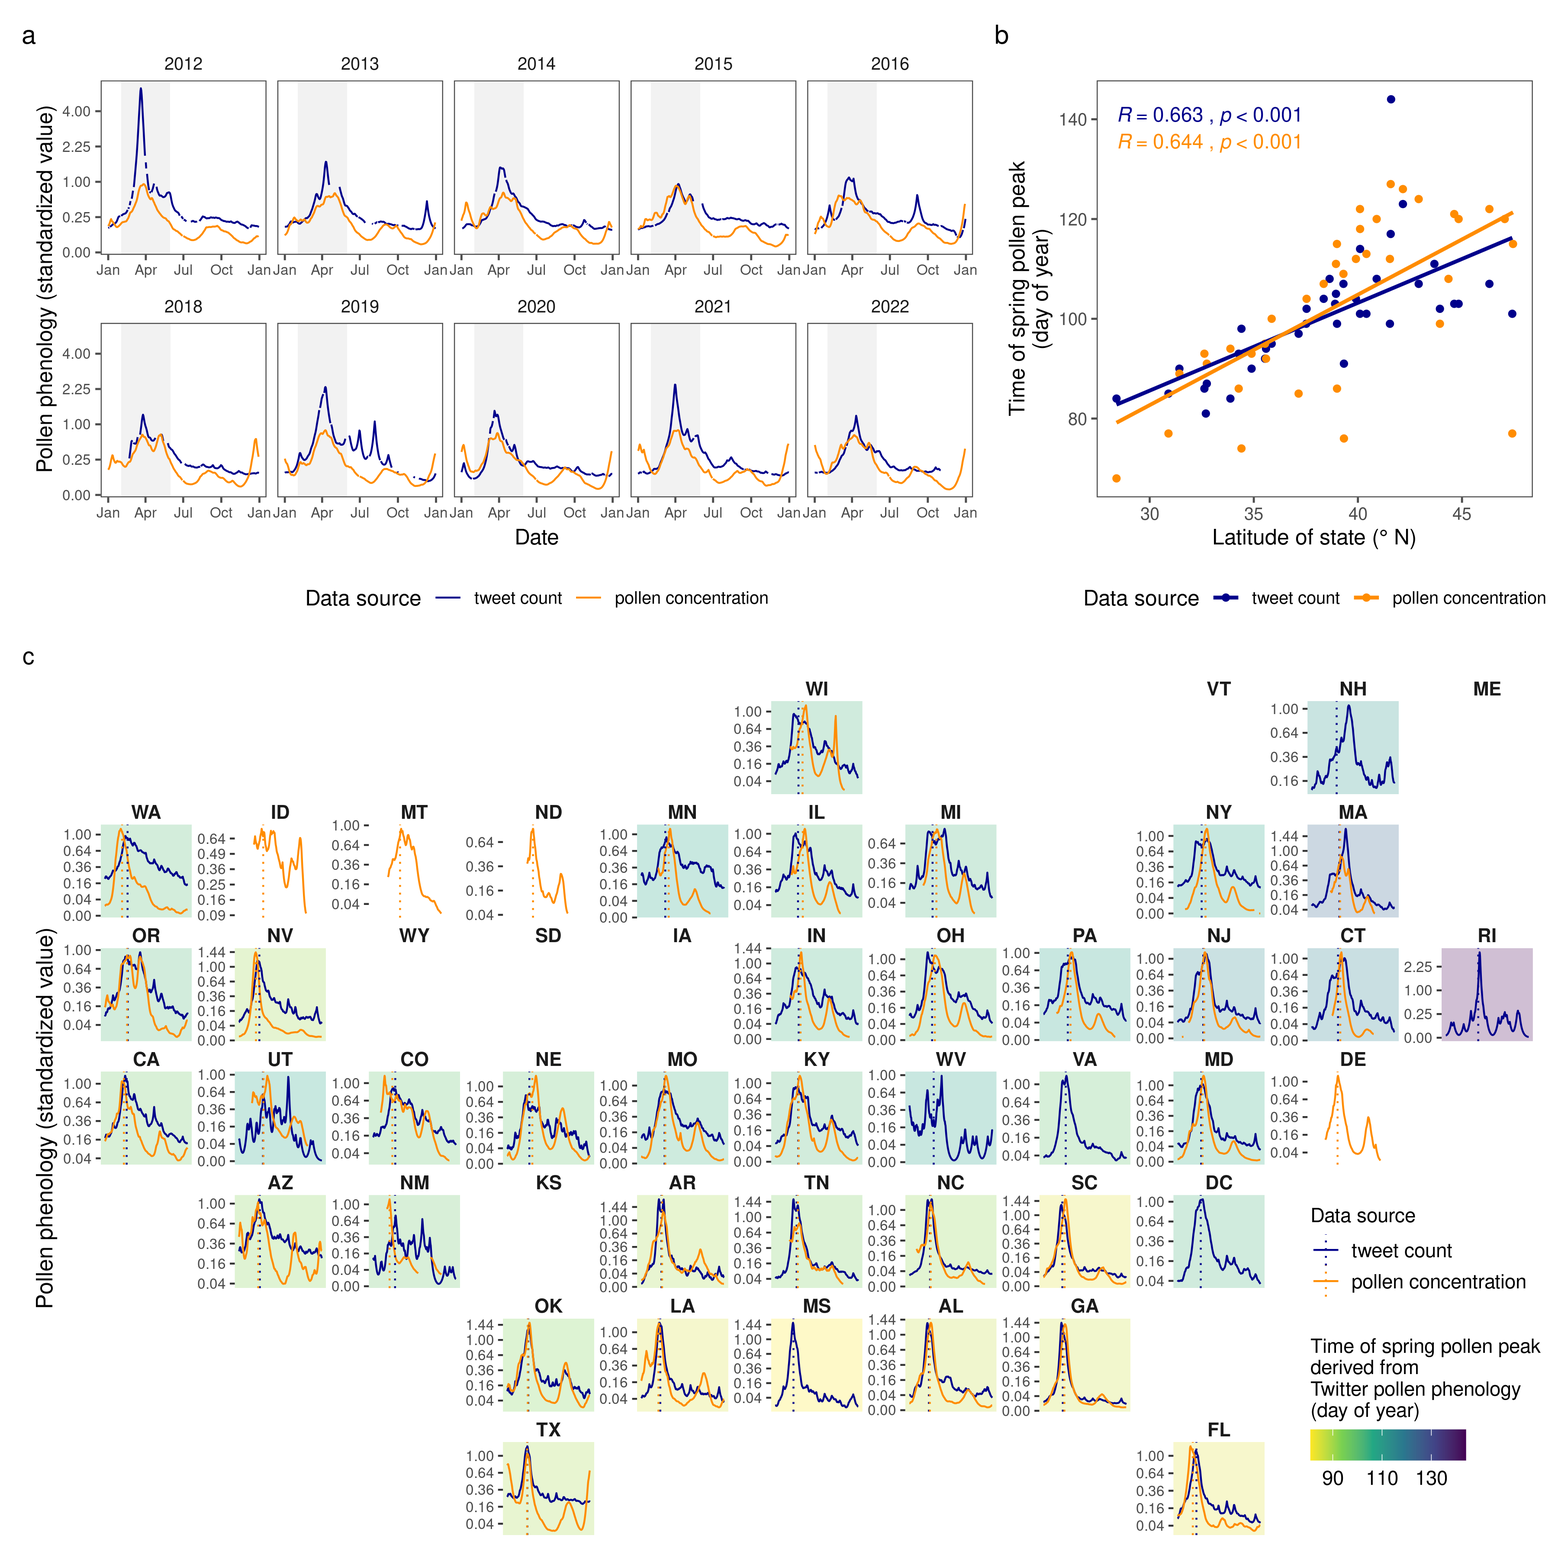
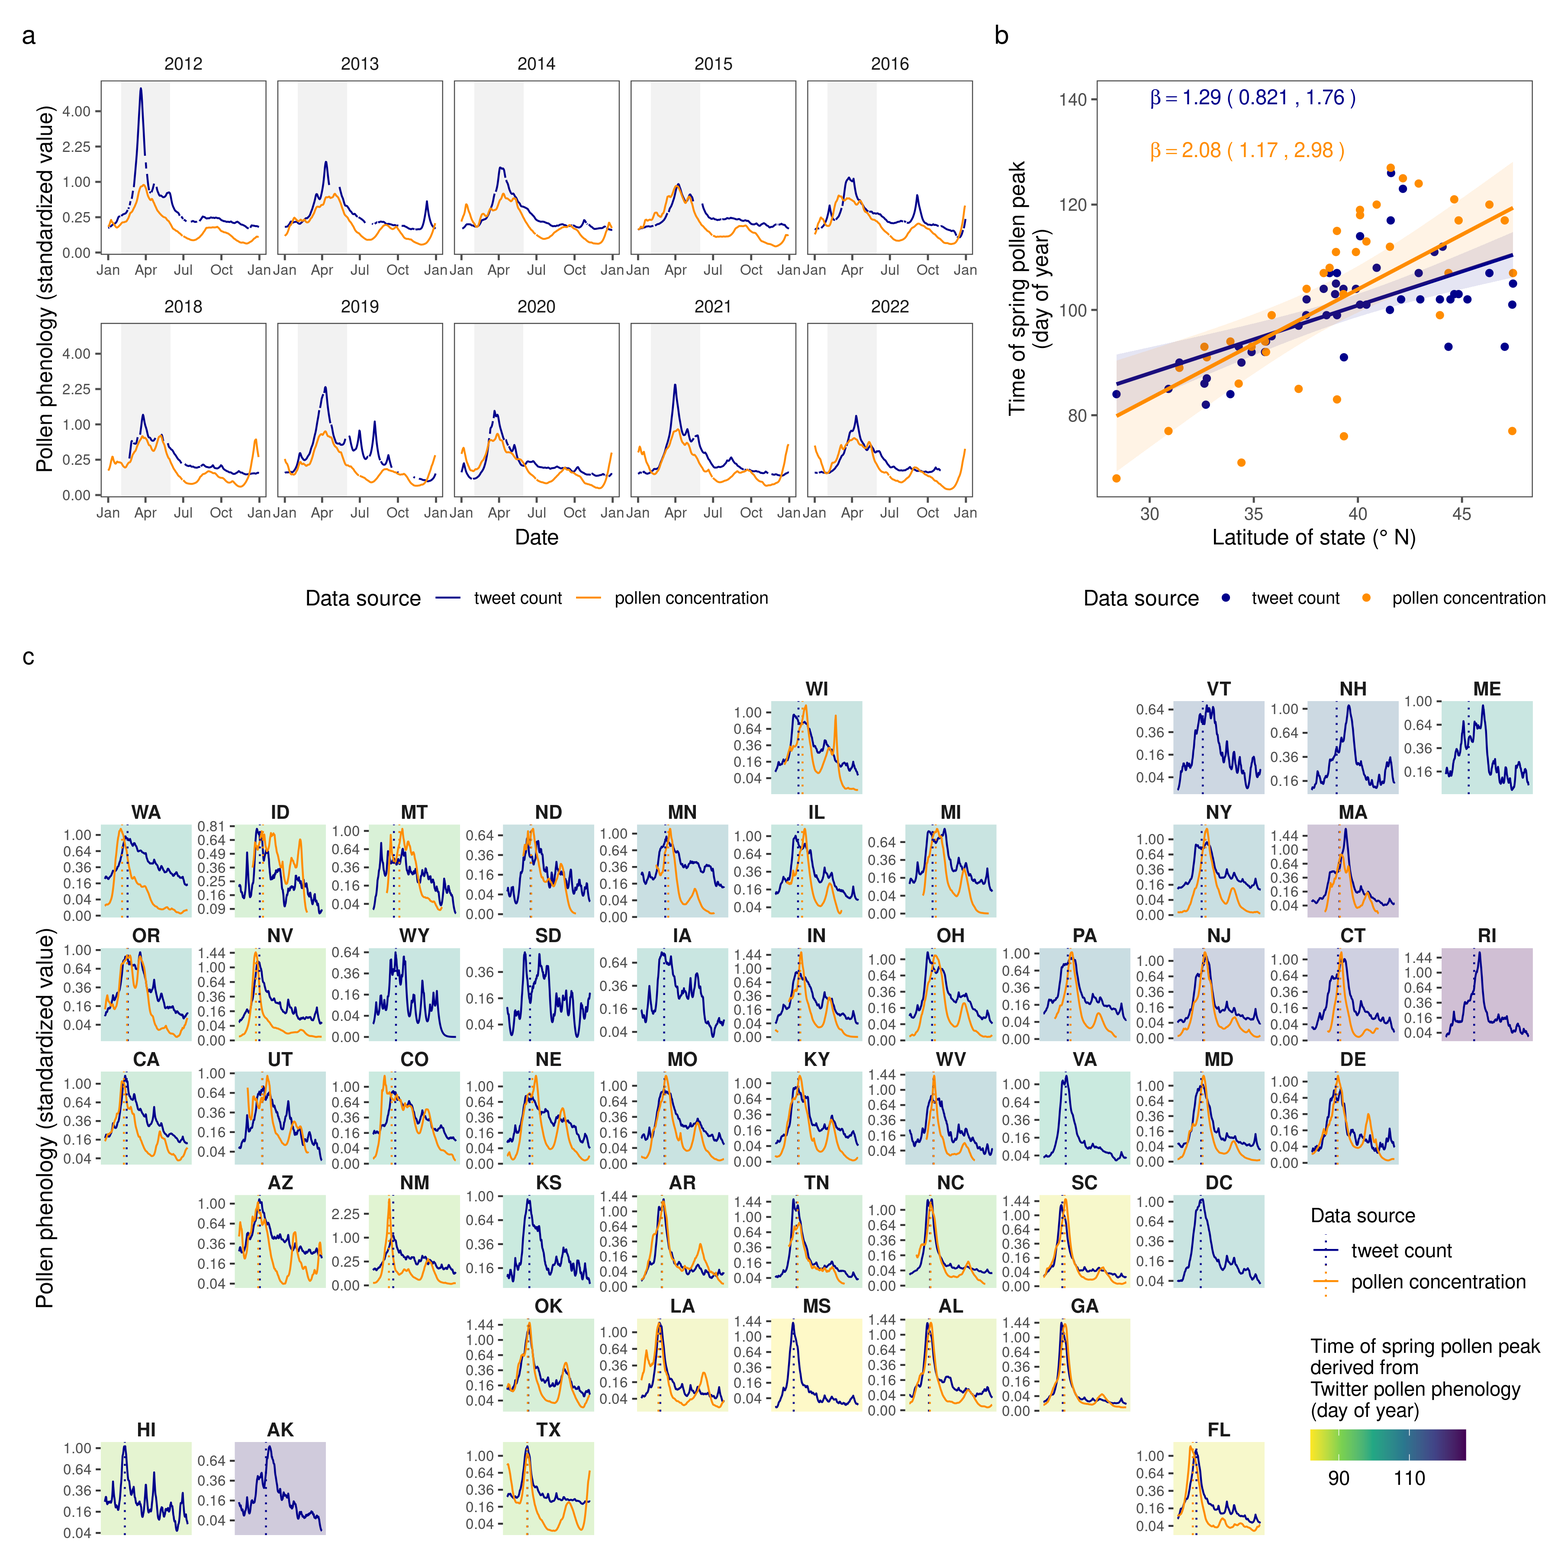
Built site for gh-pages

diff --git a/research.html b/research.html
@@ -225,7 +225,43 @@ window.Quarto = {
 
 <div class="quarto-listing quarto-listing-container-default" id="listing-listing">
 <div class="list quarto-listing-default">
-<div class="quarto-post image-right" data-index="0" data-categories="QWxsZXJnZW4lMjBwaGVub2xvZ3klMkNGaXJzdC1hdXRob3I=" data-listing-date-sort="1766725200000" data-listing-file-modified-sort="1768945345576" data-listing-date-modified-sort="NaN" data-listing-reading-time-sort="3" data-listing-word-count-sort="451">
+<div class="quarto-post image-right" data-index="0" data-categories="Q2hhbmdpbmclMjBwaGVub2xvZ3klMkNGaXJzdC1hdXRob3I=" data-listing-date-sort="1768885200000" data-listing-file-modified-sort="1768946403275" data-listing-date-modified-sort="NaN" data-listing-reading-time-sort="2" data-listing-word-count-sort="285">
+<div class="thumbnail">
+<p><a href="./research/b4warmed/index.html" class="no-external"></a></p><a href="./research/b4warmed/index.html" class="no-external">
+<p class="card-img-top"><img src="research/b4warmed/1.jpg"  class="thumbnail-image card-img"/></p>
+</a><p><a href="./research/b4warmed/index.html" class="no-external"></a></p>
+</div>
+<div class="body">
+<h3 class="no-anchor listing-title">
+<a href="./research/b4warmed/index.html" class="no-external">Forest tree phenology in a global change experiment</a>
+</h3>
+<div class="listing-subtitle">
+<a href="./research/b4warmed/index.html" class="no-external">Warming makes forest trees grow earlier in the spring, but often not taller</a>
+</div>
+<div class="listing-categories">
+<div class="listing-category" onclick="window.quartoListingCategory('Q2hhbmdpbmclMjBwaGVub2xvZ3k='); return false;">
+Changing phenology
+</div>
+<div class="listing-category" onclick="window.quartoListingCategory('Rmlyc3QtYXV0aG9y'); return false;">
+First-author
+</div>
+</div>
+<div class="listing-description">
+<a href="./research/b4warmed/index.html" class="no-external">Manuscript under review, invited oral presentation at AGU 2024</a>
+</div>
+</div>
+<div class="metadata">
+<a href="./research/b4warmed/index.html" class="no-external">
+<div class="listing-date">
+Jan 20, 2026
+</div>
+<div class="listing-author">
+<strong>Yiluan Song</strong>, Kai Zhu, Yang Chen, Artur Stefanski, Raimundo Bermudez, Rebecca A. Montgomery, Peter B. Reich
+</div>
+</a>
+</div>
+</div>
+<div class="quarto-post image-right" data-index="1" data-categories="QWxsZXJnZW4lMjBwaGVub2xvZ3klMkNGaXJzdC1hdXRob3I=" data-listing-date-sort="1766725200000" data-listing-file-modified-sort="1768945608822" data-listing-date-modified-sort="NaN" data-listing-reading-time-sort="3" data-listing-word-count-sort="431">
 <div class="thumbnail">
 <p><a href="./research/twitter/index.html" class="no-external"></a></p><a href="./research/twitter/index.html" class="no-external">
 <p class="card-img-top"><img src="research/twitter/1.png"  class="thumbnail-image card-img"/></p>
@@ -247,7 +283,7 @@ First-author
 </div>
 </div>
 <div class="listing-description">
-<a href="./research/twitter/index.html" class="no-external">Manuscript under review <br> Master’s student Chuangbo Tong, undergraduate student Luke Hamilton, and undergraduate student Cait Schilt at the University of California, Santa Cruz contributed to the exploratory data analysis of this project.</a>
+<a href="./research/twitter/index.html" class="no-external"><em>PNAS Nexus</em> 2026 <br> Master’s student Chuangbo Tong, undergraduate student Luke Hamilton, and undergraduate student Cait Schilt at the University of California, Santa Cruz contributed to the exploratory data analysis of this project.</a>
 </div>
 </div>
 <div class="metadata">
@@ -261,7 +297,7 @@ Dec 26, 2025
 </a>
 </div>
 </div>
-<div class="quarto-post image-right" data-index="1" data-categories="QWxsZXJnZW4lMjBwaGVub2xvZ3klMkNTdHVkZW50LWxlZA==" data-listing-date-sort="1751256000000" data-listing-file-modified-sort="1768944945359" data-listing-date-modified-sort="NaN" data-listing-reading-time-sort="2" data-listing-word-count-sort="349">
+<div class="quarto-post image-right" data-index="2" data-categories="QWxsZXJnZW4lMjBwaGVub2xvZ3klMkNTdHVkZW50LWxlZA==" data-listing-date-sort="1751256000000" data-listing-file-modified-sort="1768945610110" data-listing-date-modified-sort="NaN" data-listing-reading-time-sort="2" data-listing-word-count-sort="349">
 <div class="thumbnail">
 <p><a href="./research/spore/index.html" class="no-external"></a></p><a href="./research/spore/index.html" class="no-external">
 <p class="card-img-top"><img src="research/spore/1.jpg"  class="thumbnail-image card-img"/></p>
@@ -297,7 +333,7 @@ Ruoyu Wu, <strong>Yiluan Song</strong>, Jennifer Head, Daniel S. W. Katz, Kabir 
 </a>
 </div>
 </div>
[2 lines of base64/hex data omitted]
 <div class="thumbnail">
 <p><a href="./research/sft/index.html" class="no-external"></a></p><a href="./research/sft/index.html" class="no-external">
 <p class="card-img-top"><img src="research/sft/1.jpg"  class="thumbnail-image card-img"/></p>
@@ -336,7 +372,7 @@ Yi Liu, <strong>Yiluan Song</strong>, Kai Zhu
 </a>
 </div>
 </div>
[2 lines of base64/hex data omitted]
 <div class="thumbnail">
 <p><a href="./research/rs4flower/index.html" class="no-external"></a></p><a href="./research/rs4flower/index.html" class="no-external">
 <p class="card-img-top"><img src="research/rs4flower/1.png"  class="thumbnail-image card-img"/></p>
@@ -375,7 +411,7 @@ Mar 11, 2025
 </a>
 </div>
 </div>
-<div class="quarto-post image-right" data-index="4" data-categories="Q2hhbmdpbmclMjBwaGVub2xvZ3klMkNGaXJzdC1hdXRob3I=" data-listing-date-sort="1731301200000" data-listing-file-modified-sort="1768943798476" data-listing-date-modified-sort="NaN" data-listing-reading-time-sort="2" data-listing-word-count-sort="358">
+<div class="quarto-post image-right" data-index="5" data-categories="Q2hhbmdpbmclMjBwaGVub2xvZ3klMkNGaXJzdC1hdXRob3I=" data-listing-date-sort="1731301200000" data-listing-file-modified-sort="1768943798476" data-listing-date-modified-sort="NaN" data-listing-reading-time-sort="2" data-listing-word-count-sort="358">
 <div class="thumbnail">
 <p><a href="./research/synchrony/index.html" class="no-external"></a></p><a href="./research/synchrony/index.html" class="no-external">
 <p class="card-img-top"><img src="research/synchrony/1.png"  class="thumbnail-image card-img"/></p>
@@ -411,7 +447,7 @@ Nov 11, 2024
 </a>
 </div>
 </div>
[2 lines of base64/hex data omitted]
 <div class="thumbnail">
 <p><a href="./research/grassland/index.html" class="no-external"></a></p><a href="./research/grassland/index.html" class="no-external">
 <p class="card-img-top"><img src="research/grassland/1.png"  class="thumbnail-image card-img"/></p>
@@ -450,7 +486,7 @@ Kai Zhu<sup>†</sup>, <strong>Yiluan Song</strong><sup>†</sup>, Josephine C. 
 </a>
 </div>
 </div>
-<div class="quarto-post image-right" data-index="6" data-categories="Q2hhbmdpbmclMjBiaW9kaXZlcnNpdHklMkNGaXJzdC1hdXRob3I=" data-listing-date-sort="1729051200000" data-listing-file-modified-sort="1768943798332" data-listing-date-modified-sort="NaN" data-listing-reading-time-sort="1" data-listing-word-count-sort="162">
+<div class="quarto-post image-right" data-index="7" data-categories="Q2hhbmdpbmclMjBiaW9kaXZlcnNpdHklMkNGaXJzdC1hdXRob3I=" data-listing-date-sort="1729051200000" data-listing-file-modified-sort="1768943798332" data-listing-date-modified-sort="NaN" data-listing-reading-time-sort="1" data-listing-word-count-sort="162">
 <div class="thumbnail">
 <p><a href="./research/sdm/index.html" class="no-external"></a></p><a href="./research/sdm/index.html" class="no-external">
 <p class="card-img-top"><img src="research/sdm/1.png"  class="thumbnail-image card-img"/></p>
@@ -482,42 +518,6 @@ Oct 16, 2024
 </div>
 <div class="listing-author">
 Yiluan Song, Kai Zhu, as a team in a worldwide collaborative study
-</div>
-</a>
-</div>
-</div>
-<div class="quarto-post image-right" data-index="7" data-categories="Q2hhbmdpbmclMjBwaGVub2xvZ3klMkNGaXJzdC1hdXRob3I=" data-listing-date-sort="1725076800000" data-listing-file-modified-sort="1768943797558" data-listing-date-modified-sort="NaN" data-listing-reading-time-sort="2" data-listing-word-count-sort="285">
-<div class="thumbnail">
-<p><a href="./research/b4warmed/index.html" class="no-external"></a></p><a href="./research/b4warmed/index.html" class="no-external">
-<p class="card-img-top"><img src="research/b4warmed/1.jpeg"  class="thumbnail-image card-img"/></p>
-</a><p><a href="./research/b4warmed/index.html" class="no-external"></a></p>
-</div>
-<div class="body">
-<h3 class="no-anchor listing-title">
-<a href="./research/b4warmed/index.html" class="no-external">Forest tree phenology in a global change experiment</a>
-</h3>
-<div class="listing-subtitle">
-<a href="./research/b4warmed/index.html" class="no-external">Warming makes forest trees grow earlier in the spring, but often not taller</a>
-</div>
-<div class="listing-categories">
-<div class="listing-category" onclick="window.quartoListingCategory('Q2hhbmdpbmclMjBwaGVub2xvZ3k='); return false;">
-Changing phenology
-</div>
-<div class="listing-category" onclick="window.quartoListingCategory('Rmlyc3QtYXV0aG9y'); return false;">
-First-author
-</div>
-</div>
-<div class="listing-description">
-<a href="./research/b4warmed/index.html" class="no-external">Manuscript in preparation, invited oral presentation at AGU 2024</a>
-</div>
-</div>
-<div class="metadata">
-<a href="./research/b4warmed/index.html" class="no-external">
-<div class="listing-date">
-Aug 31, 2024
-</div>
-<div class="listing-author">
-<strong>Yiluan Song</strong>, Yang Chen, Rebecca A. Montgomery, Peter B. Reich, Artur Stefanski, Raimundo Bermudez Villanueva, Kai Zhu
 </div>
 </a>
 </div>

diff --git a/research/twitter/index.html b/research/twitter/index.html
@@ -12,9 +12,9 @@
 <meta name="author" content="Derek Van Berkel">
 <meta name="author" content="Arun Agrawal">
 <meta name="author" content="Kai Zhu">
-<meta name="dcterms.date" content="2024-08-02">
+<meta name="dcterms.date" content="2025-12-26">
 <meta name="keywords" content="global change biology, environmental data science, allergy, climate change, phenology, public health, social media">
-<meta name="description" content="Manuscript under review   Master’s student Chuangbo Tong, undergraduate student Luke Hamilton, and undergraduate student Cait Schilt at the University of California, Santa Cruz contributed to the exploratory data analysis of this project.">
+<meta name="description" content="PNAS Nexus 2026   Master’s student Chuangbo Tong, undergraduate student Luke Hamilton, and undergraduate student Cait Schilt at the University of California, Santa Cruz contributed to the exploratory data analysis of this project.">
 
 <title>Public perceptions of pollen seasons under climate change – Yiluan Song</title>
 <style>
@@ -160,7 +160,7 @@ document.addEventListener('DOMContentLoaded', function () {
       <header id="title-block-header" class="quarto-title-block default">
 <div class="quarto-title">
 <h1 class="title">Public perceptions of pollen seasons under climate change</h1>
-<p class="subtitle lead">Biological changes, political ideology, and scientific communication shape human perceptions of pollen seasons</p>
+<p class="subtitle lead">Political ideology and scientific communication shape human perceptions of pollen seasons</p>
   <div class="quarto-categories">
     <div class="quarto-category">Allergen phenology</div>
     <div class="quarto-category">First-author</div>
@@ -168,7 +168,7 @@ document.addEventListener('DOMContentLoaded', function () {
   </div>
 <div>
   <div class="description">
-    Manuscript under review <br> Master’s student Chuangbo Tong, undergraduate student Luke Hamilton, and undergraduate student Cait Schilt at the University of California, Santa Cruz contributed to the exploratory data analysis of this project.
+    <em>PNAS Nexus</em> 2026 <br> Master’s student Chuangbo Tong, undergraduate student Luke Hamilton, and undergraduate student Cait Schilt at the University of California, Santa Cruz contributed to the exploratory data analysis of this project.
   </div>
 </div>
 <div class="quarto-title-meta">
@@ -186,7 +186,7 @@ document.addEventListener('DOMContentLoaded', function () {
     <div>
     <div class="quarto-title-meta-heading">Published</div>
     <div class="quarto-title-meta-contents">
-      <p class="date">August 2, 2024</p>
+      <p class="date">December 26, 2025</p>
     </div>
   </div>
   </div>
@@ -197,11 +197,11 @@ document.addEventListener('DOMContentLoaded', function () {
   </div>
 </div>
 </header> <div class="about-links">
-  <a href="https://doi.org/10.1101/2024.07.30.605525" class="about-link" rel="" target="">
-    <i class="bi bi-file"></i>
-     <span class="about-link-text">Preprint</span>
+  <a href="https://doi.org/10.1093/pnasnexus/pgaf386" class="about-link" rel="" target="">
+    <i class="bi bi-pdf"></i>
+     <span class="about-link-text">Paper</span>
   </a>
-  <a href="https://github.com/zhulabgroup/phenology-twitter" class="about-link" rel="" target="">
+  <a href="https://github.com/zhulabgroup/phenology-twitter/tree/release" class="about-link" rel="" target="">
     <i class="bi bi-github"></i>
      <span class="about-link-text">GitHub</span>
   </a>
@@ -220,7 +220,7 @@ document.addEventListener('DOMContentLoaded', function () {
 </section>
 <section id="abstract" class="level2">
 <h2 data-anchor-id="abstract">Abstract</h2>
-<p>Climate change is generally changing the timing and intensity of pollen seasons, thereby often increasing human exposure to allergenic pollen. Climate-driven changes in pollen seasons present a unique opportunity to craft messaging aimed at communicating climate change impacts on public health through changes in the biological systems. However, it is unclear how pollen seasons are experienced and understood by the public, including how well we detect pollen seasons or what factors we view as responsible for changes in pollen seasons. Here, we use social media data in the United States from 2012 to 2022 to assess public perceptions of pollen seasons at large spatiotemporal scales. We show that pollen seasons detected by social media (Twitter) users align well with natural pollen seasons. Attribution of changing pollen seasons, however, varies based on political ideology: liberal users, compared to conservative users, are more likely to attribute changing pollen seasons to climate change. Mass media and scientific experts play a key role in communicating how climate change drives changing pollen seasons. Our findings reveal how changes in biological systems, political ideology, and scientific communications collectively shape public perceptions of pollen seasons under climate change. Our findings constitute a step towards more effective climate change impact communication and public health intervention design.</p>
+<p>Climate change is altering the timing and intensity of pollen seasons, increasing human exposure to allergenic pollen. Climate-driven changes in pollen seasons present a unique opportunity to craft messaging that communicates how climate change is affecting biological systems. However, it is unclear how pollen seasons are experienced and understood by the public, including how well we detect pollen seasons and what factors we view as responsible for changes in pollen seasons. Here, we use social media data (Twitter) in the United States from 2012 to 2022 to assess public perceptions of pollen seasons across the country. We find that pollen seasons detected by social media users are consistent with natural pollen seasons. Attribution of changing pollen seasons, however, varies based on political ideology: liberal users are more likely to attribute changing pollen seasons to climate change when compared with conservative users. Mass media and scientific experts shape communication about how climate change drives changes in pollen seasons. Our findings reveal how political ideology and scientific communication affect public perceptions of pollen seasons and climate change. Our findings are a key step towards improved communication of climate change impacts.</p>
 <hr>
 </section>
 <section id="twitter-users-accurately-detect-pollen-phenology" class="level2">

diff --git a/research/b4warmed/index.html b/research/b4warmed/index.html
@@ -7,15 +7,15 @@
 <meta name="viewport" content="width=device-width, initial-scale=1.0, user-scalable=yes">
 
 <meta name="author" content="Yiluan Song">
+<meta name="author" content="Kai Zhu">
 <meta name="author" content="Yang Chen">
+<meta name="author" content="Artur Stefanski">
+<meta name="author" content="Raimundo Bermudez">
 <meta name="author" content="Rebecca A. Montgomery">
 <meta name="author" content="Peter B. Reich">
-<meta name="author" content="Artur Stefanski">
-<meta name="author" content="Raimundo Bermudez Villanueva">
-<meta name="author" content="Kai Zhu">
-<meta name="dcterms.date" content="2024-08-31">
+<meta name="dcterms.date" content="2026-01-20">
 <meta name="keywords" content="global change biology, environmental data science, phenology, climate change, global change experiment">
-<meta name="description" content="Manuscript in preparation, invited oral presentation at AGU 2024">
+<meta name="description" content="Manuscript under review, invited oral presentation at AGU 2024">
 
 <title>Forest tree phenology in a global change experiment – Yiluan Song</title>
 <style>
@@ -169,7 +169,7 @@ document.addEventListener('DOMContentLoaded', function () {
   </div>
 <div>
   <div class="description">
-    Manuscript in preparation, invited oral presentation at AGU 2024
+    Manuscript under review, invited oral presentation at AGU 2024
   </div>
 </div>
 <div class="quarto-title-meta">
@@ -177,18 +177,18 @@ document.addEventListener('DOMContentLoaded', function () {
     <div class="quarto-title-meta-heading">Authors</div>
     <div class="quarto-title-meta-contents">
              <p><strong>Yiluan Song</strong> </p>
+             <p>Kai Zhu </p>
              <p>Yang Chen </p>
+             <p>Artur Stefanski </p>
+             <p>Raimundo Bermudez </p>
              <p>Rebecca A. Montgomery </p>
              <p>Peter B. Reich </p>
-             <p>Artur Stefanski </p>
-             <p>Raimundo Bermudez Villanueva </p>
-             <p>Kai Zhu </p>
           </div>
   </div>
     <div>
     <div class="quarto-title-meta-heading">Published</div>
     <div class="quarto-title-meta-contents">
-      <p class="date">August 31, 2024</p>
+      <p class="date">January 20, 2026</p>
     </div>
   </div>
   </div>
@@ -199,13 +199,9 @@ document.addEventListener('DOMContentLoaded', function () {
   </div>
 </div>
 </header> <div class="about-links">
-  <a href="https://zhulabgroup.github.io/phenology-b4warmed/" class="about-link" rel="" target="">
-    <i class="bi bi-link"></i>
-     <span class="about-link-text">Project Website</span>
-  </a>
-  <a href="https://github.com/zhulabgroup/phenology-b4warmed" class="about-link" rel="" target="">
-    <i class="bi bi-github"></i>
-     <span class="about-link-text">GitHub</span>
+  <a href="https://doi.org/10.64898/2025.11.30.691420" class="about-link" rel="" target="">
+    <i class="bi bi-file"></i>
+     <span class="about-link-text">Preprint</span>
   </a>
 </div>
       <div class="about-contents"><main class="content" id="quarto-document-content">
@@ -229,7 +225,7 @@ document.addEventListener('DOMContentLoaded', function () {
 <h2 data-anchor-id="b4warmed-global-change-experiment">B4WarmED Global Change Experiment</h2>
 <div class="quarto-figure quarto-figure-center">
 <figure class="figure">
-<p><img src="1.jpeg" height="500" class="figure-img"></p>
+<p><img src="1.jpg" height="500" class="figure-img"></p>
 <figcaption>A plot at B4WarmED experiment</figcaption>
 </figure>
 </div>
